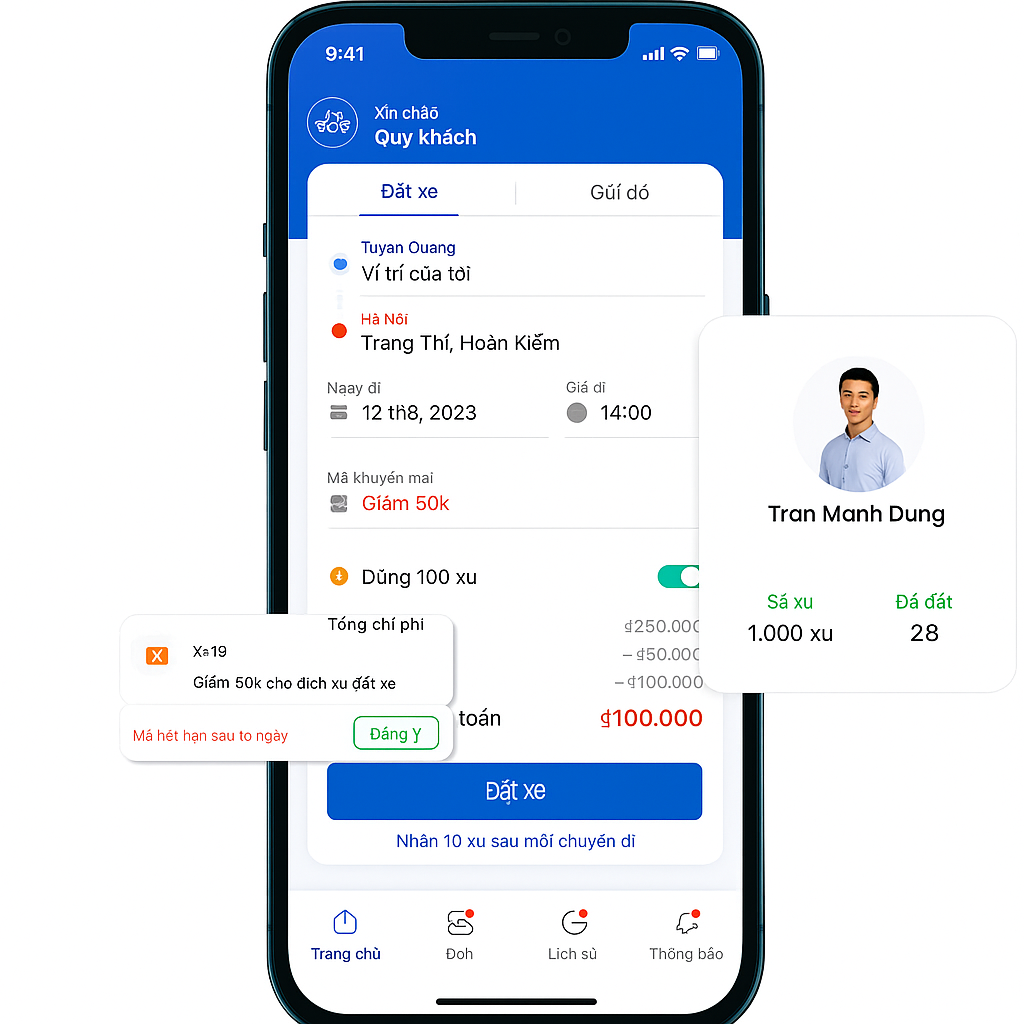
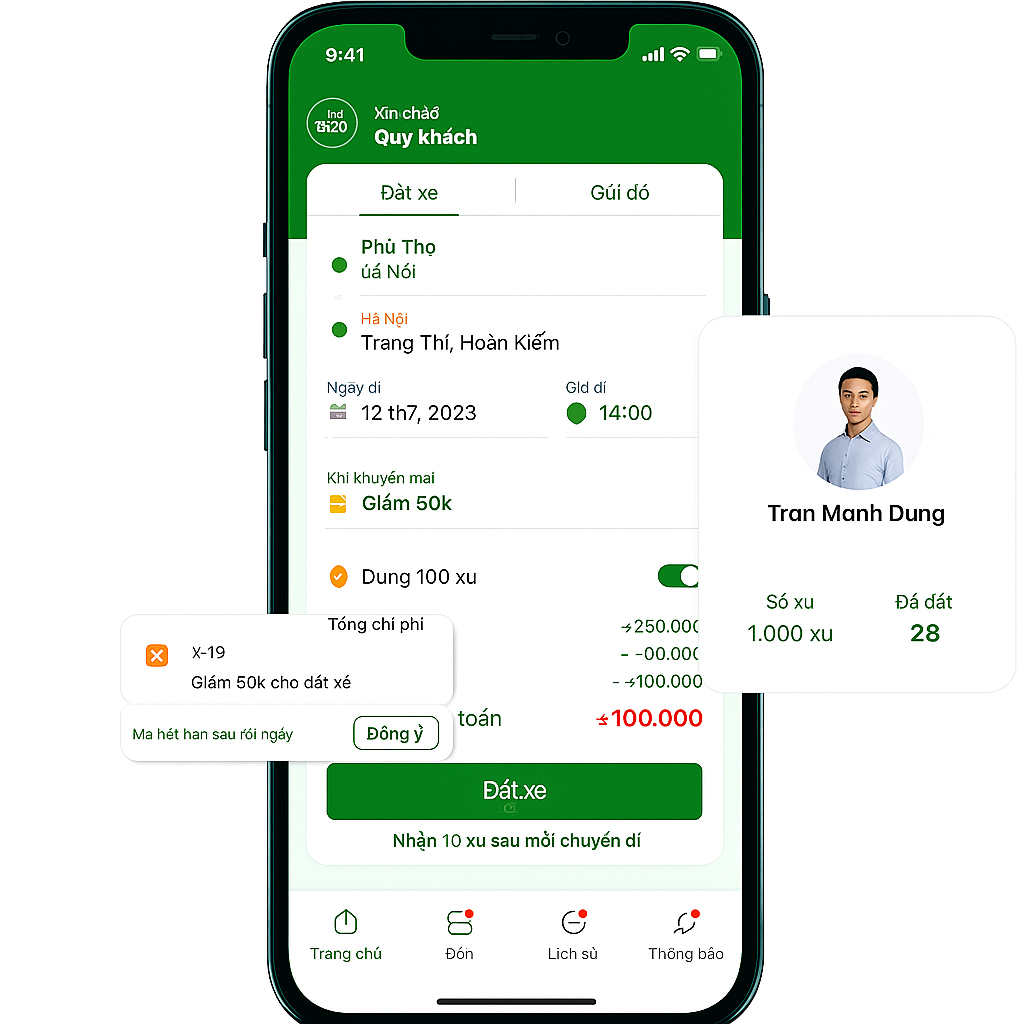
change theme

diff --git a/css/styles.css b/css/styles.css
@@ -7,10 +7,10 @@
 
 /* CSS Variables */
 :root {
-  --primary-color: #1e40af;
-  --secondary-color: #3b82f6;
-  --accent-color: #60a5fa;
-  --light-blue: #dbeafe;
+  --primary-color: #166534; /* Xanh đậm chủ đạo từ logo */
+  --secondary-color: #16a34a; /* Xanh trung bình */
+  --accent-color: #84cc16; /* Xanh lá cây sáng từ logo */
+  --light-green: #dcfce7; /* Xanh nhạt thay thế light-blue */
   --text-color: #374151;
   --dark-color: #111827;
   --light-color: #f8fafc;
@@ -21,17 +21,17 @@
     0 10px 10px -5px rgba(0, 0, 0, 0.04);
   --gradient-primary: linear-gradient(
     135deg,
-    #1e40af 0%,
-    #3b82f6 50%,
-    #60a5fa 100%
+    #166534 0%,
+    #16a34a 50%,
+    #84cc16 100%
   );
-  --gradient-secondary: linear-gradient(135deg, #dbeafe 0%, #bfdbfe 100%);
+  --gradient-secondary: linear-gradient(135deg, #dcfce7 0%, #bbf7d0 100%);
   --gradient-hero: linear-gradient(
     135deg,
-    #1e3a8a 0%,
-    #1e40af 25%,
-    #3b82f6 75%,
-    #60a5fa 100%
+    #14532d 0%,
+    #166534 25%,
+    #16a34a 75%,
+    #84cc16 100%
   );
 }
 
@@ -133,7 +133,7 @@ body {
 }
 
 .info-item i {
-  color: var(--accent-color);
+  color: white;
   font-size: 0.9rem;
 }
 
@@ -217,15 +217,17 @@ body {
 }
 
 .logo-icon {
-  width: 50px;
-  height: 50px;
-  background: var(--gradient-primary);
-  color: white;
-  border-radius: 50%;
+  width: 120px;
+  height: 60px;
   display: flex;
   align-items: center;
   justify-content: center;
-  font-size: 1.5rem;
+}
+
+.logo-icon .logo-image {
+  width: 100%;
+  height: 100%;
+  object-fit: contain;
 }
 
 .logo-text {
@@ -513,7 +515,7 @@ body {
 }
 
 .feature-item i {
-  color: #10b981;
+  color: #16a34a;
   font-size: 1.2rem;
   width: 20px;
 }
@@ -588,10 +590,10 @@ body {
 
 .phone-button i {
   font-size: 1.5rem;
-  color: #10b981;
+  color: #16a34a;
   width: 40px;
   height: 40px;
-  background: rgba(16, 185, 129, 0.2);
+  background: rgba(22, 163, 74, 0.2);
   border-radius: 50%;
   display: flex;
   align-items: center;
@@ -800,7 +802,7 @@ body {
 }
 
 .route-point.start i {
-  color: #10b981;
+  color: #16a34a;
 }
 
 .route-point.end i {
@@ -810,7 +812,7 @@ body {
 .route-line {
   width: 2px;
   height: 30px;
-  background: linear-gradient(to bottom, #10b981, var(--primary-color));
+  background: linear-gradient(to bottom, #16a34a, var(--primary-color));
   margin-left: 0.5rem;
   border-radius: 1px;
 }
@@ -1386,7 +1388,7 @@ body {
   align-items: center;
   gap: 0.8rem;
   padding: 0.8rem;
-  background: var(--light-blue);
+  background: var(--light-green);
   border-radius: 8px;
   font-size: 0.9rem;
 }
@@ -1471,21 +1473,23 @@ body {
 }
 
 .footer-logo .logo-icon {
-  width: 50px;
+  width: 100px;
   height: 50px;
-  background: var(--gradient-primary);
-  color: white;
-  border-radius: 50%;
   display: flex;
   align-items: center;
   justify-content: center;
-  font-size: 1.5rem;
+}
+
+.footer-logo .logo-icon .logo-image {
+  width: 100%;
+  height: 100%;
+  object-fit: contain;
 }
 
 .footer-logo .logo-text h3 {
   font-size: 1.8rem;
   font-weight: 700;
-  background: linear-gradient(135deg, #60a5fa 0%, #93c5fd 100%);
+  background: linear-gradient(135deg, #84cc16 0%, #16a34a 100%);
   -webkit-background-clip: text;
   -webkit-text-fill-color: transparent;
   background-clip: text;
@@ -1887,12 +1891,9 @@ body {
     border-radius: 20px;
   }
 
-  .logo-name {
-    font-size: 1.3rem; /* Giảm size logo */
-  }
-
-  .logo-tagline {
-    font-size: 0.7rem; /* Giảm tagline */
+  .logo-icon {
+    width: 100px; /* Giảm size logo cho mobile */
+    height: 50px;
   }
 
   .nav-menu {
@@ -2268,10 +2269,10 @@ body {
 .about-hero {
   background: linear-gradient(
     135deg,
-    #1e3a8a 0%,
-    #1e40af 25%,
-    #3b82f6 75%,
-    #60a5fa 100%
+    #14532d 0%,
+    #166534 25%,
+    #16a34a 75%,
+    #84cc16 100%
   );
   color: white;
   padding: 8rem 0 4rem;
@@ -2572,7 +2573,7 @@ body {
   left: 0;
   right: 0;
   height: 5px;
-  background: linear-gradient(135deg, #059669 0%, #10b981 100%);
+  background: linear-gradient(135deg, #166534 0%, #16a34a 100%);
 }
 
 .vision-card::before {
@@ -2582,7 +2583,7 @@ body {
   left: 0;
   right: 0;
   height: 5px;
-  background: linear-gradient(135deg, #7c3aed 0%, #a855f7 100%);
+  background: linear-gradient(135deg, #84cc16 0%, #65a30d 100%);
 }
 
 .card-icon {
@@ -2598,11 +2599,11 @@ body {
 }
 
 .mission-card .card-icon {
-  background: linear-gradient(135deg, #059669 0%, #10b981 100%);
+  background: linear-gradient(135deg, #166534 0%, #16a34a 100%);
 }
 
 .vision-card .card-icon {
-  background: linear-gradient(135deg, #7c3aed 0%, #a855f7 100%);
+  background: linear-gradient(135deg, #84cc16 0%, #65a30d 100%);
 }
 
 .card-title {
@@ -2707,10 +2708,10 @@ body {
 .contact-hero {
   background: linear-gradient(
     135deg,
-    #1e3a8a 0%,
-    #1e40af 25%,
-    #3b82f6 75%,
-    #60a5fa 100%
+    #14532d 0%,
+    #166534 25%,
+    #16a34a 75%,
+    #84cc16 100%
   );
   color: white;
   padding: 10rem 0 8rem;

diff --git a/delete-account.html b/delete-account.html
@@ -101,11 +101,7 @@
                     <div class="nav-brand">
                         <a href="index.html" class="logo">
                             <div class="logo-icon">
-                                <i class="fas fa-car"></i>
-                            </div>
-                            <div class="logo-text">
-                                <span class="logo-name">Xe19</span>
-                                <span class="logo-tagline">Phú Thọ - Hà Nội</span>
+                                <img src="images/logo.png" alt="Xe19 Logo" class="logo-image">
                             </div>
                         </a>
                     </div>
@@ -218,7 +214,7 @@
                         <div class="footer-logo-section">
                             <div class="footer-logo">
                                 <div class="logo-icon">
-                                    <i class="fas fa-car"></i>
+                                    <img src="images/logo.png" alt="Xe19 Logo" class="logo-image">
                                 </div>
                                 <div class="logo-text">
                                     <h3>Xe19</h3>

diff --git a/about.html b/about.html
@@ -50,11 +50,7 @@
                     <div class="nav-brand">
                         <a href="index.html" class="logo">
                             <div class="logo-icon">
-                                <i class="fas fa-car"></i>
-                            </div>
-                            <div class="logo-text">
-                                <span class="logo-name">Xe19</span>
-                                <span class="logo-tagline">Phú Thọ - Hà Nội</span>
+                                <img src="images/logo.png" alt="Xe19 Logo" class="logo-image">
                             </div>
                         </a>
                     </div>
@@ -215,7 +211,7 @@
                         <div class="footer-logo-section">
                             <div class="footer-logo">
                                 <div class="logo-icon">
-                                    <i class="fas fa-car"></i>
+                                    <img src="images/logo.png" alt="Xe19 Logo" class="logo-image">
                                 </div>
                                 <div class="logo-text">
                                     <h3>Xe19</h3>

diff --git a/contact.html b/contact.html
@@ -50,11 +50,7 @@
                     <div class="nav-brand">
                         <a href="index.html" class="logo">
                             <div class="logo-icon">
-                                <i class="fas fa-car"></i>
-                            </div>
-                            <div class="logo-text">
-                                <span class="logo-name">Xe19</span>
-                                <span class="logo-tagline">Phú Thọ - Hà Nội</span>
+                                <img src="images/logo.png" alt="Xe19 Logo" class="logo-image">
                             </div>
                         </a>
                     </div>
@@ -288,7 +284,7 @@
                         <div class="footer-logo-section">
                             <div class="footer-logo">
                                 <div class="logo-icon">
-                                    <i class="fas fa-car"></i>
+                                    <img src="images/logo.png" alt="Xe19 Logo" class="logo-image">
                                 </div>
                                 <div class="logo-text">
                                     <h3>Xe19</h3>

diff --git a/index.html b/index.html
@@ -51,11 +51,7 @@
                     <div class="nav-brand">
                         <a href="index.html" class="logo">
                             <div class="logo-icon">
-                                <i class="fas fa-car"></i>
-                            </div>
-                            <div class="logo-text">
-                                <span class="logo-name">Xe19</span>
-                                <span class="logo-tagline">Phú Thọ - Hà Nội</span>
+                                <img src="images/logo.png" alt="Xe19 Logo" class="logo-image">
                             </div>
                         </a>
                     </div>
@@ -370,7 +366,7 @@
                         <div class="footer-logo-section">
                             <div class="footer-logo">
                                 <div class="logo-icon">
-                                    <i class="fas fa-car"></i>
+                                    <img src="images/logo.png" alt="Xe19 Logo" class="logo-image">
                                 </div>
                                 <div class="logo-text">
                                     <h3>Xe19</h3>

diff --git a/privacy.html b/privacy.html
@@ -94,11 +94,7 @@
                     <div class="nav-brand">
                         <a href="index.html" class="logo">
                             <div class="logo-icon">
-                                <i class="fas fa-car"></i>
-                            </div>
-                            <div class="logo-text">
-                                <span class="logo-name">Xe19</span>
-                                <span class="logo-tagline">Phú Thọ - Hà Nội</span>
+                                <img src="images/logo.png" alt="Xe19 Logo" class="logo-image">
                             </div>
                         </a>
                     </div>
@@ -196,7 +192,7 @@
                         <div class="footer-logo-section">
                             <div class="footer-logo">
                                 <div class="logo-icon">
-                                    <i class="fas fa-car"></i>
+                                    <img src="images/logo.png" alt="Xe19 Logo" class="logo-image">
                                 </div>
                                 <div class="logo-text">
                                     <h3>Xe19</h3>

diff --git a/terms.html b/terms.html
@@ -98,11 +98,7 @@
                     <div class="nav-brand">
                         <a href="index.html" class="logo">
                             <div class="logo-icon">
-                                <i class="fas fa-car"></i>
-                            </div>
-                            <div class="logo-text">
-                                <span class="logo-name">Xe19</span>
-                                <span class="logo-tagline">Phú Thọ - Hà Nội</span>
+                                <img src="images/logo.png" alt="Xe19 Logo" class="logo-image">
                             </div>
                         </a>
                     </div>
@@ -217,7 +213,7 @@
                         <div class="footer-logo-section">
                             <div class="footer-logo">
                                 <div class="logo-icon">
-                                    <i class="fas fa-car"></i>
+                                    <img src="images/logo.png" alt="Xe19 Logo" class="logo-image">
                                 </div>
                                 <div class="logo-text">
                                     <h3>Xe19</h3>
